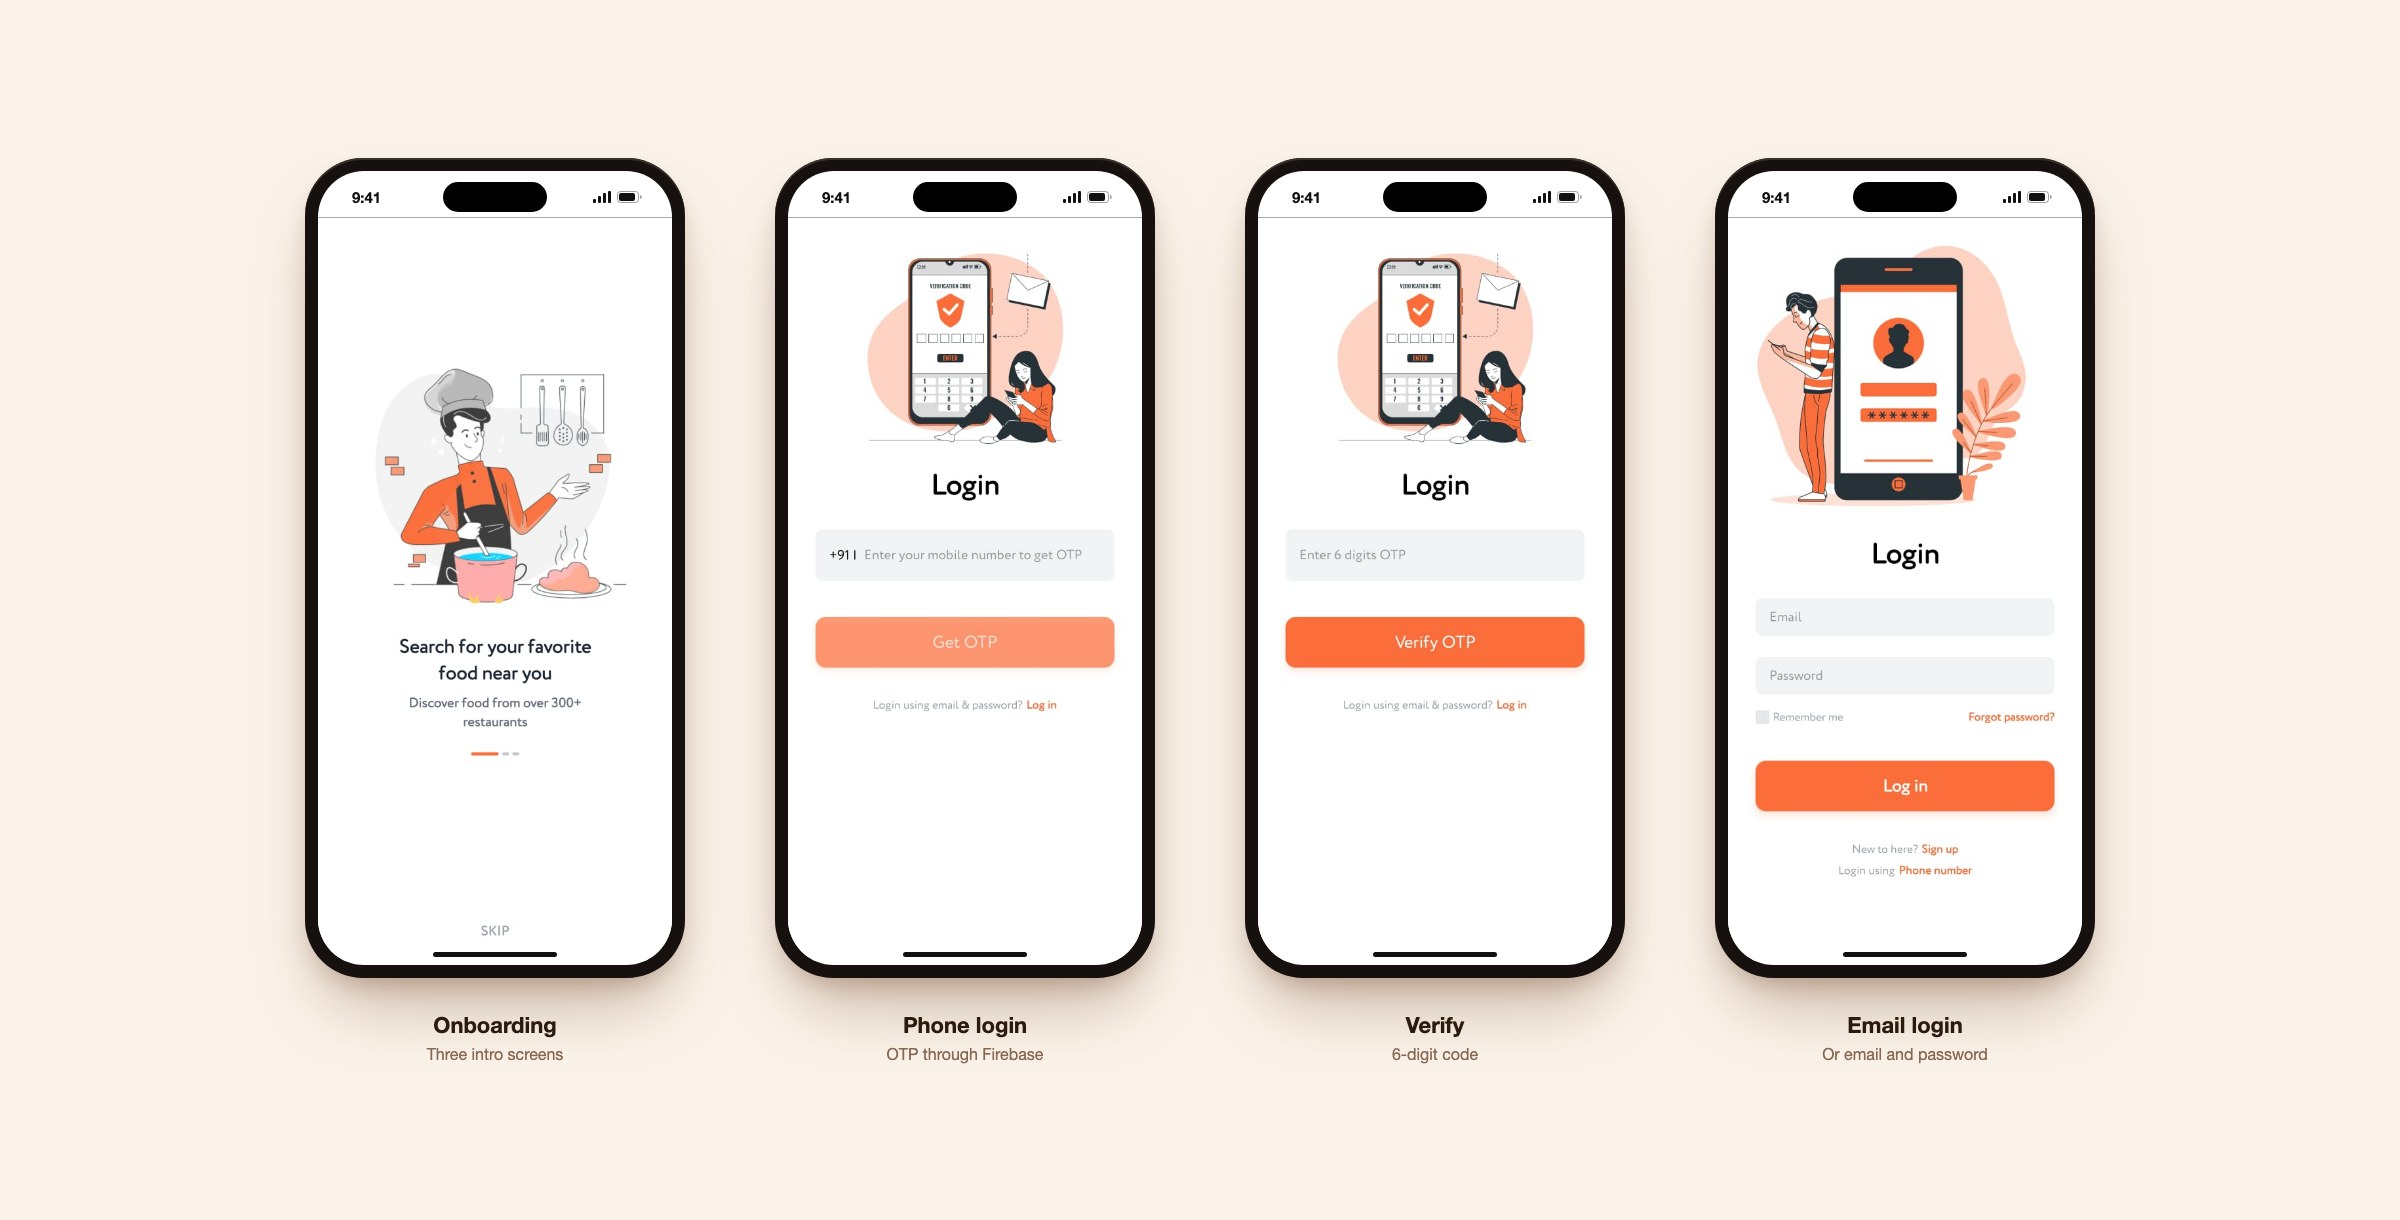
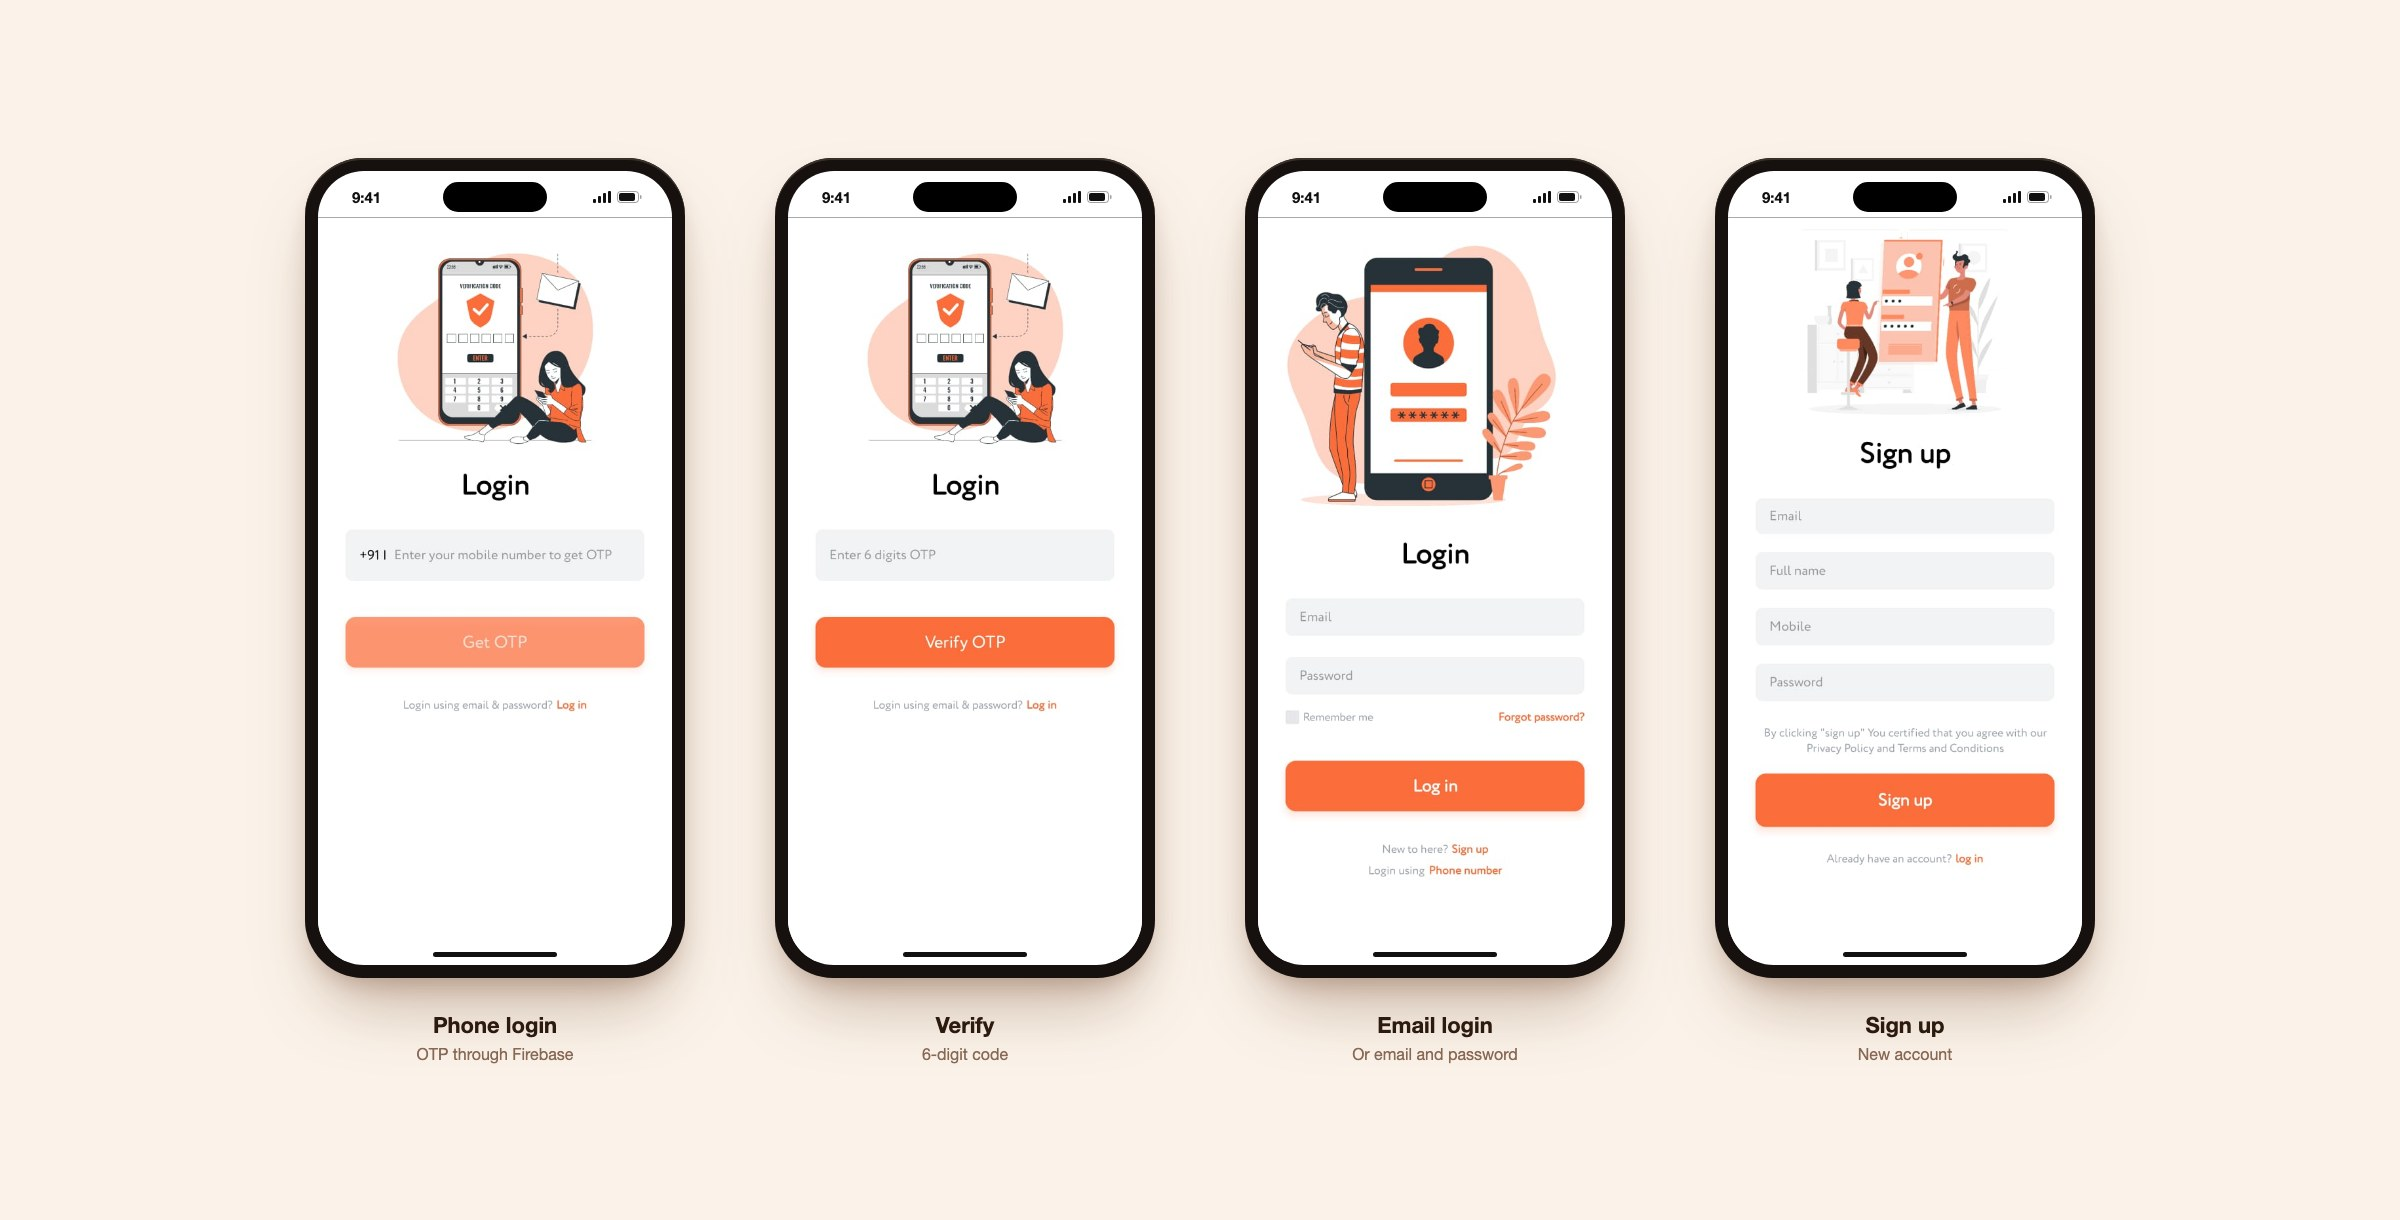
Add sign up and onboarding mockups

diff --git a/README.md b/README.md
@@ -10,7 +10,11 @@ A cross-platform food delivery app built with **React Native and Expo**, inspire
 
 ### Sign in
 
-![Onboarding, phone login, OTP and email login screens](screenshots/signin.jpg)
+![Phone login, OTP, email login and sign up screens](screenshots/signin.jpg)
+
+### Onboarding
+
+![Three onboarding screens](screenshots/onboard.jpg)
 
 ## Features
 
